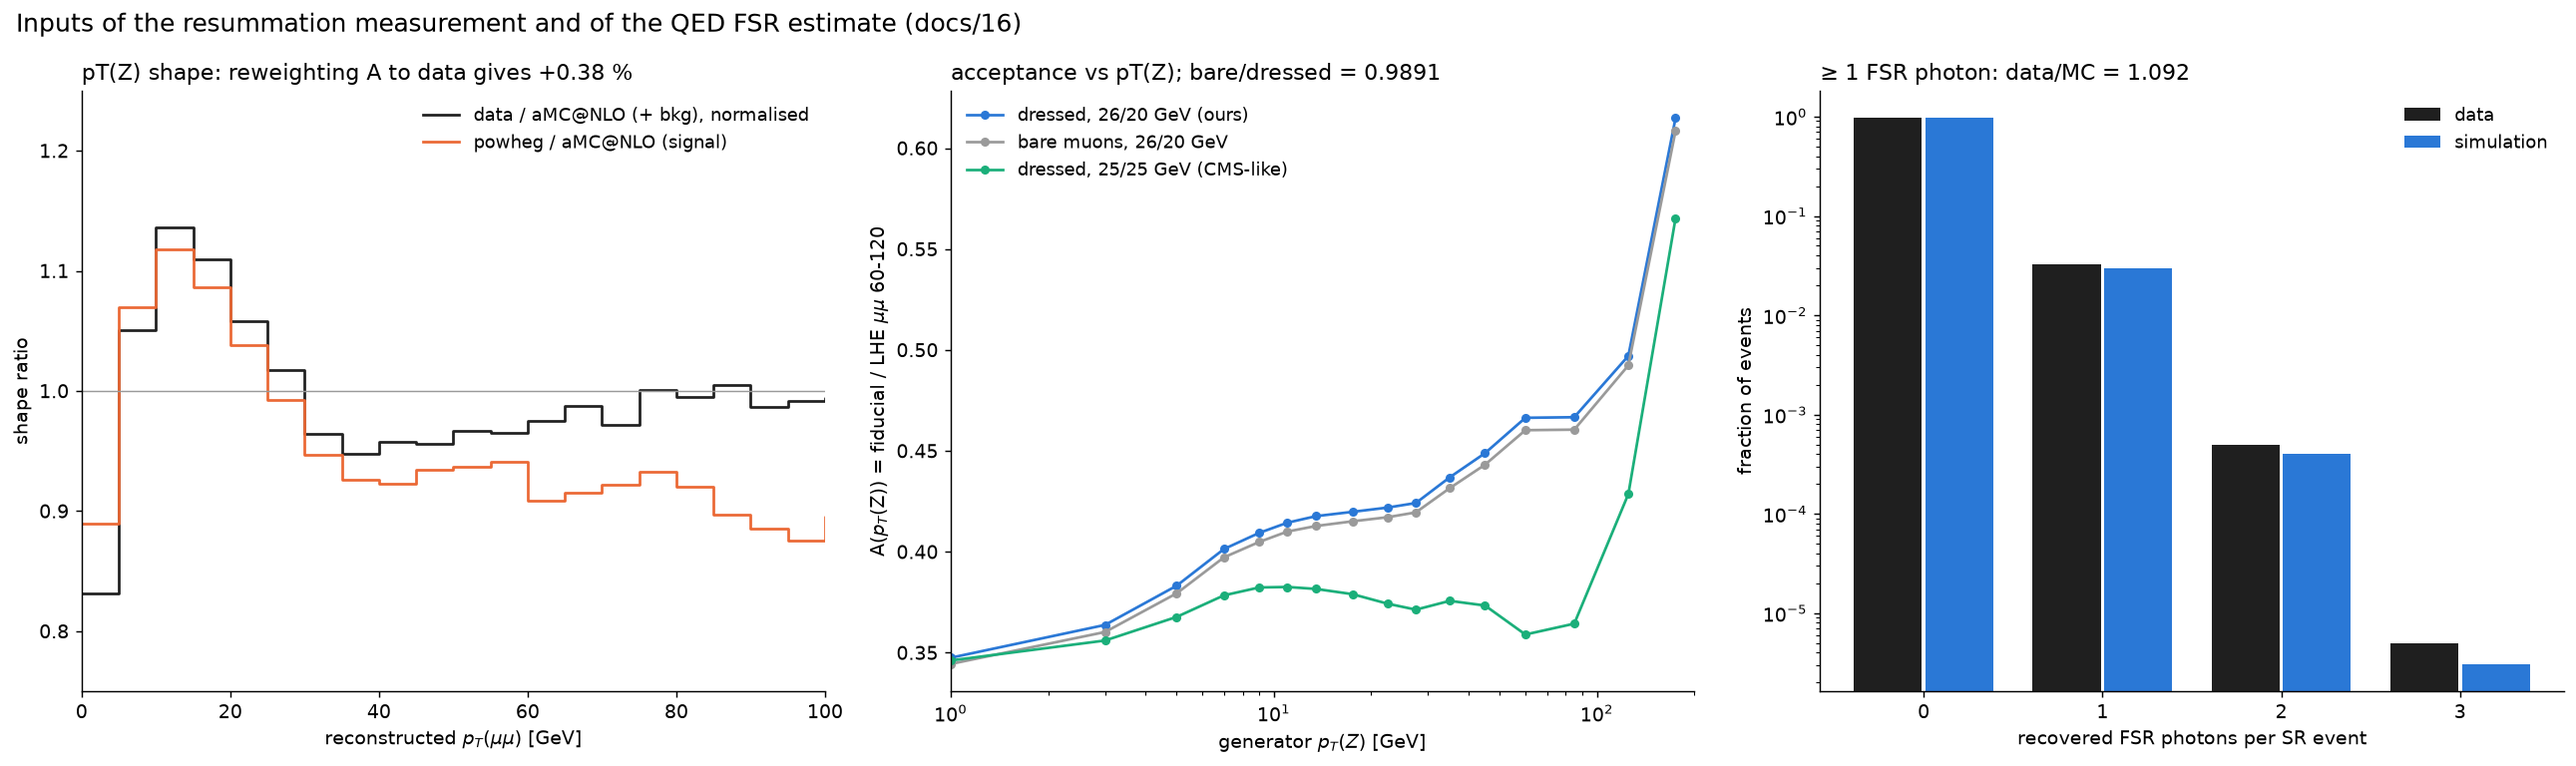
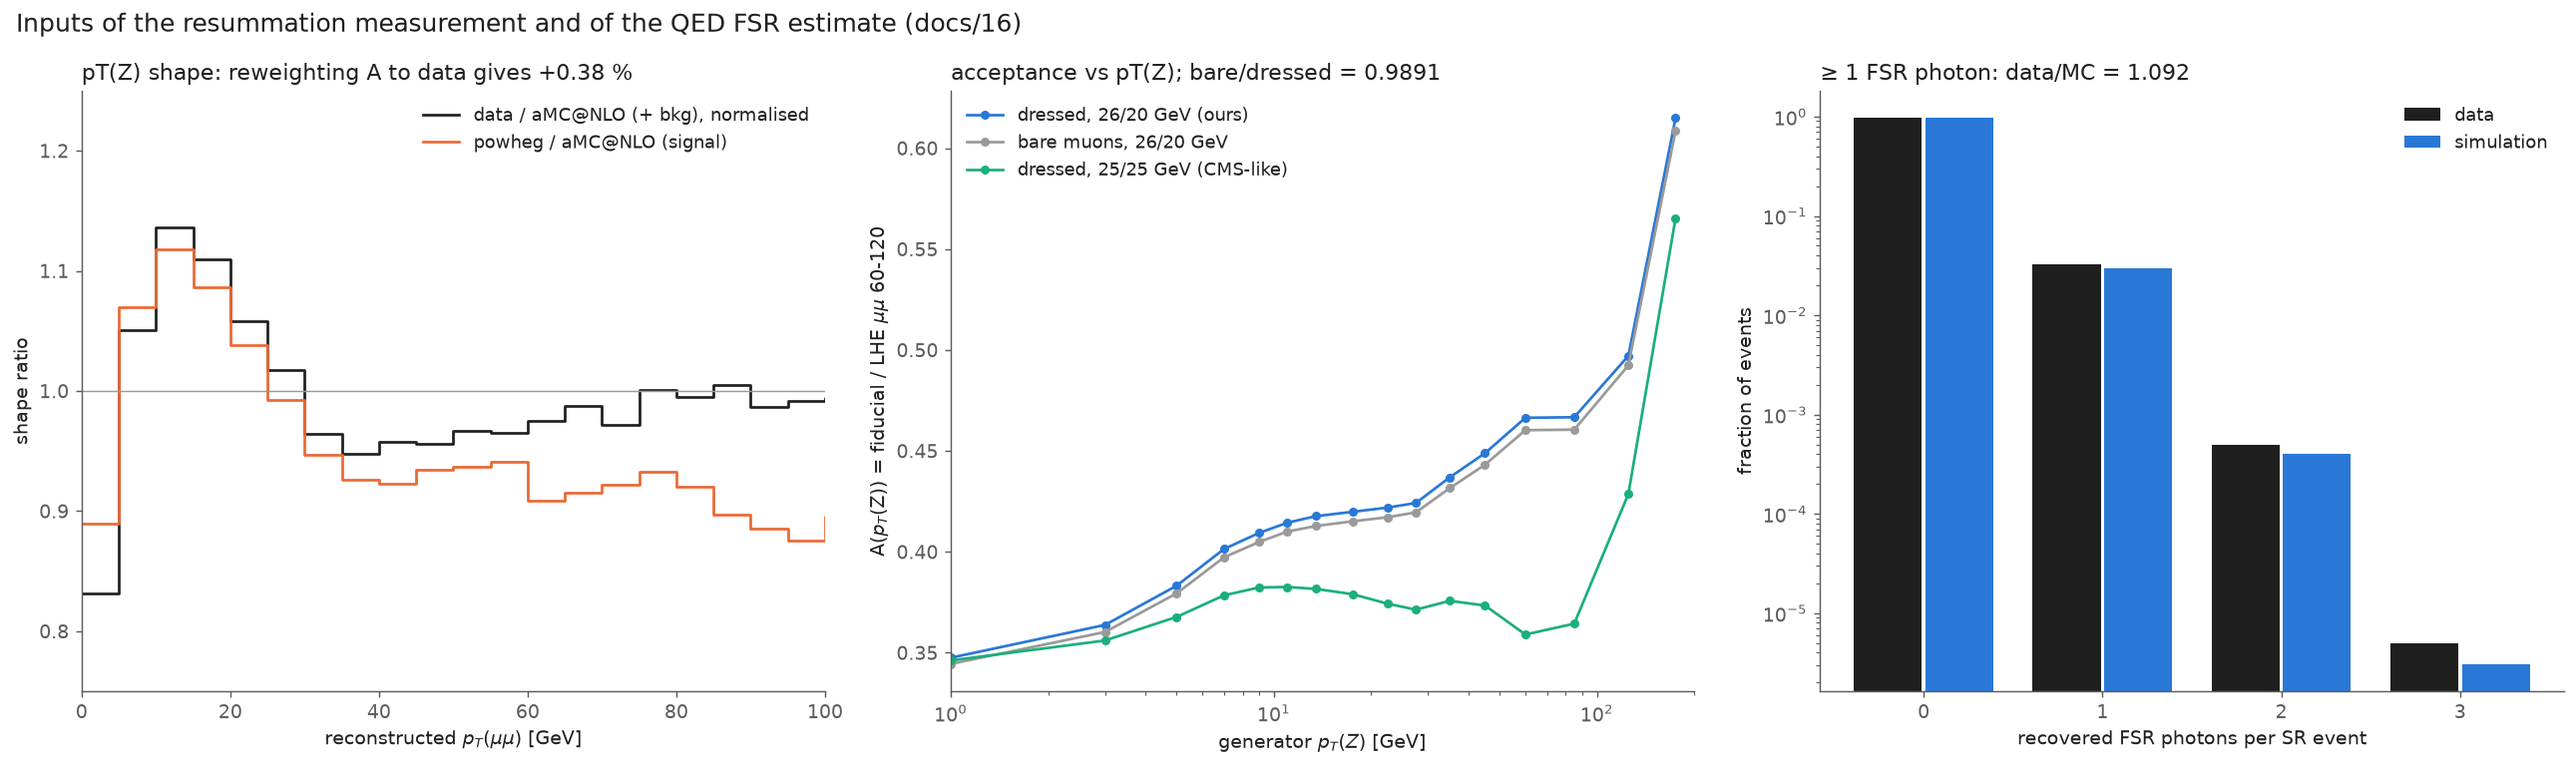
fitting/uncertainty_parity: dark (house slide) theme for the parity figures
Claude-Session: https://claude.ai/code/session_01YNfGsRmR7zd8z9dcsmZYpc

diff --git a/fitting/uncertainty_parity.py b/fitting/uncertainty_parity.py
@@ -50,7 +50,14 @@ import numpy as np
 OPTIONS = {"a": "3a: published value", "b": "3b: set to zero", "c": "3c: our estimate"}
 STATUS_TEXT = {"similar": "similar", "better": "ours better", "partial": "partial / eyeballed",
                "missing": "missing", "not-applicable": "n/a", "ours-only": "ours only", "measured-now": "measured now"}
-INK, INK_2, GRID, REF = "#1f1f1f", "#5c5c5c", "#e6e6e6", "#6b6b6b"
+INK, INK_2, GRID, REF, BG = "#1f1f1f", "#5c5c5c", "#e6e6e6", "#6b6b6b", "white"
+THEMES = {"light": dict(INK="#1f1f1f", INK_2="#5c5c5c", GRID="#e6e6e6", REF="#6b6b6b", BG="white"),
+          "dark": dict(INK="#E6E6E6", INK_2="#99999E", GRID="#3a3a40", REF="#8C8C94", BG="#222222")}
+
+
+def set_theme(name):
+    """'light' (docs, default) or 'dark' (the house slide style: #222222 ground, like the deck)."""
+    globals().update(THEMES[name])
 
 
 # ----------------------------------------------------------------------------- numbers
@@ -172,7 +179,10 @@ def _default_style(fn):
     def wrapper(*args, **kwargs):
         import matplotlib.pyplot as plt
         with plt.style.context("default"):
-            plt.rcParams.update({"font.size": 10.5, "axes.titlesize": 13})
+            plt.rcParams.update({"font.size": 10.5, "axes.titlesize": 13, "figure.facecolor": BG, "axes.facecolor": BG,
+                                 "savefig.facecolor": BG, "text.color": INK, "axes.labelcolor": INK,
+                                 "xtick.color": INK_2, "ytick.color": INK_2, "axes.edgecolor": INK_2,
+                                 "legend.labelcolor": INK, "hatch.color": INK_2})
             return fn(*args, **kwargs)
     return wrapper
 
@@ -195,7 +205,7 @@ def plot_option(p, option, path):
     ax.barh(y + h / 2 + 0.02, ref_vals, height=h, color=REF, label=p["reference"]["label"])
     for yi, v, r in zip(y, our_vals, rows):
         est = r.get("treatment") == "estimate"
-        ax.barh(yi - h / 2 - 0.02, v, height=h, color=colour if not est else "white",
+        ax.barh(yi - h / 2 - 0.02, v, height=h, color=colour if not est else BG,
                 edgecolor=colour, hatch="///" if est else None, linewidth=1.2)
     xmax = max(max(ref_vals), max(our_vals)) * 1.28 + 0.05
     for yi, rv, ov, r in zip(y, ref_vals, our_vals, rows):
@@ -211,7 +221,7 @@ def plot_option(p, option, path):
     ax.set_xlabel("uncertainty [% of the cross section]", color=INK)
     _style(ax)
     handles = [Patch(color=REF, label=p["reference"]["label"]), Patch(color=colour, label=p.get("channel_label", "ours")),
-               Patch(facecolor="white", edgecolor=colour, hatch="///", label="ours, not measurable: option " + option)]
+               Patch(facecolor=BG, edgecolor=colour, hatch="///", label="ours, not measurable: option " + option)]
     ax.legend(handles=handles, loc="lower right", bbox_to_anchor=(0.86, 0.0), fontsize=10, frameon=False)
     ax.set_title(f"Uncertainty budget — {OPTIONS[option]}", loc="left", fontsize=14, color=INK)
 
@@ -229,7 +239,7 @@ def plot_option(p, option, path):
     for yy, v, inner, outer, col, lab in pts:
         ax2.errorbar(v, yy, xerr=outer, fmt="none", ecolor=col, elinewidth=1.4, capsize=5)
         ax2.errorbar(v, yy, xerr=inner, fmt="o", color=col, ecolor=col, elinewidth=4.0, capsize=0, markersize=9,
-                     markeredgecolor="white", markeredgewidth=1.5)
+                     markeredgecolor=BG, markeredgewidth=1.5)
         ax2.text(v, yy + 0.2, f"{lab}\n{v:.0f} ± {outer:.0f} {p.get('unit', '')}", ha="center", va="bottom", fontsize=10.5,
                  color=INK)
     lo = min(ref["value"] - 1.6 * ref_tot, m - 1.6 * s["total_abs"])
@@ -247,7 +257,7 @@ def plot_option(p, option, path):
              transform=ax2.transAxes, fontsize=10, color=INK_2, va="bottom")
     ax2.set_title(f"total: ours {s['total_pct']:.2f} %, reference {reference_total_pct(p):.2f} %", loc="left",
                   fontsize=12, color=INK)
-    fig.savefig(path, dpi=130, bbox_inches="tight", facecolor="white")
+    fig.savefig(path, dpi=130, bbox_inches="tight", facecolor=BG)
     plt.close(fig)
     return path
 
@@ -272,7 +282,7 @@ def plot_overview(p, path):
         nolumi = np.hypot(d["stat_pct"], d["syst_pct"])
         ax.errorbar(m, yy, xerr=d["total_abs"], fmt="none", ecolor=colour, elinewidth=1.4, capsize=6)
         ax.errorbar(m, yy, xerr=m * nolumi / 100, fmt="o", color=colour, ecolor=colour, elinewidth=4.0, capsize=0,
-                    markersize=9, markeredgecolor="white", markeredgewidth=1.5)
+                    markersize=9, markeredgecolor=BG, markeredgewidth=1.5)
         labels.append(OPTIONS[o])
         axt.text(0.0, yy, f"± {d['total_abs']:.1f} {p.get('unit', '')} ({d['total_pct']:.2f} %)    "
                           f"{nolumi:.3f} %    "
@@ -291,7 +301,7 @@ def plot_overview(p, path):
     est = [r["source"] for r in p["rows"] if r.get("treatment") == "estimate"]
     fig.suptitle(f"{p.get('channel_label', '')} vs {ref['label']}: the options for the sources we cannot measure "
                  f"({', '.join(est)})", fontsize=13.5, color=INK, x=0.02, ha="left")
-    fig.savefig(path, dpi=130, bbox_inches="tight", facecolor="white")
+    fig.savefig(path, dpi=130, bbox_inches="tight", facecolor=BG)
     plt.close(fig)
     return path
 

diff --git a/z-mumu/scripts/v2_9_cms_parity.py b/z-mumu/scripts/v2_9_cms_parity.py
@@ -267,7 +267,7 @@ def plot_estimate_inputs(ptz, theory, fsr, dA, path):
     e = np.array(ptz["reco_edges"])
     c = 0.5 * (e[1:] + e[:-1])
     ax = axes[0]
-    ax.step(e[:-1], ptz["ratio_data_mc"], where="post", color="#1f1f1f", label="data / aMC@NLO (+ bkg), normalised")
+    ax.step(e[:-1], ptz["ratio_data_mc"], where="post", color=up.INK, label="data / aMC@NLO (+ bkg), normalised")
     ax.step(e[:-1], ptz["ratio_powheg_amcnlo"], where="post", color="#eb6834", label="powheg / aMC@NLO (signal)")
     ax.axhline(1, color="#9a9a9a", lw=0.8)
     ax.set_xlim(0, 100)
@@ -292,7 +292,7 @@ def plot_estimate_inputs(ptz, theory, fsr, dA, path):
     ax = axes[2]
     nd, nm = np.array(fsr["n_data"]), np.array(fsr["n_mc"])
     x = np.arange(len(nd))
-    ax.bar(x - 0.2, nd / nd.sum(), width=0.38, color="#1f1f1f", label="data")
+    ax.bar(x - 0.2, nd / nd.sum(), width=0.38, color=up.INK, label="data")
     ax.bar(x + 0.2, nm / nm.sum(), width=0.38, color="#2a78d6", label="simulation")
     ax.set_yscale("log")
     ax.set_xticks(x)
@@ -305,7 +305,7 @@ def plot_estimate_inputs(ptz, theory, fsr, dA, path):
             ax.spines[side].set_visible(False)
     fig.suptitle("Inputs of the resummation measurement and of the QED FSR estimate (docs/16)", fontsize=14, x=0.01, ha="left")
     fig.tight_layout()
-    fig.savefig(path, dpi=130, bbox_inches="tight", facecolor="white")
+    fig.savefig(path, dpi=130, bbox_inches="tight", facecolor=up.BG)
     plt.close(fig)
 
 
